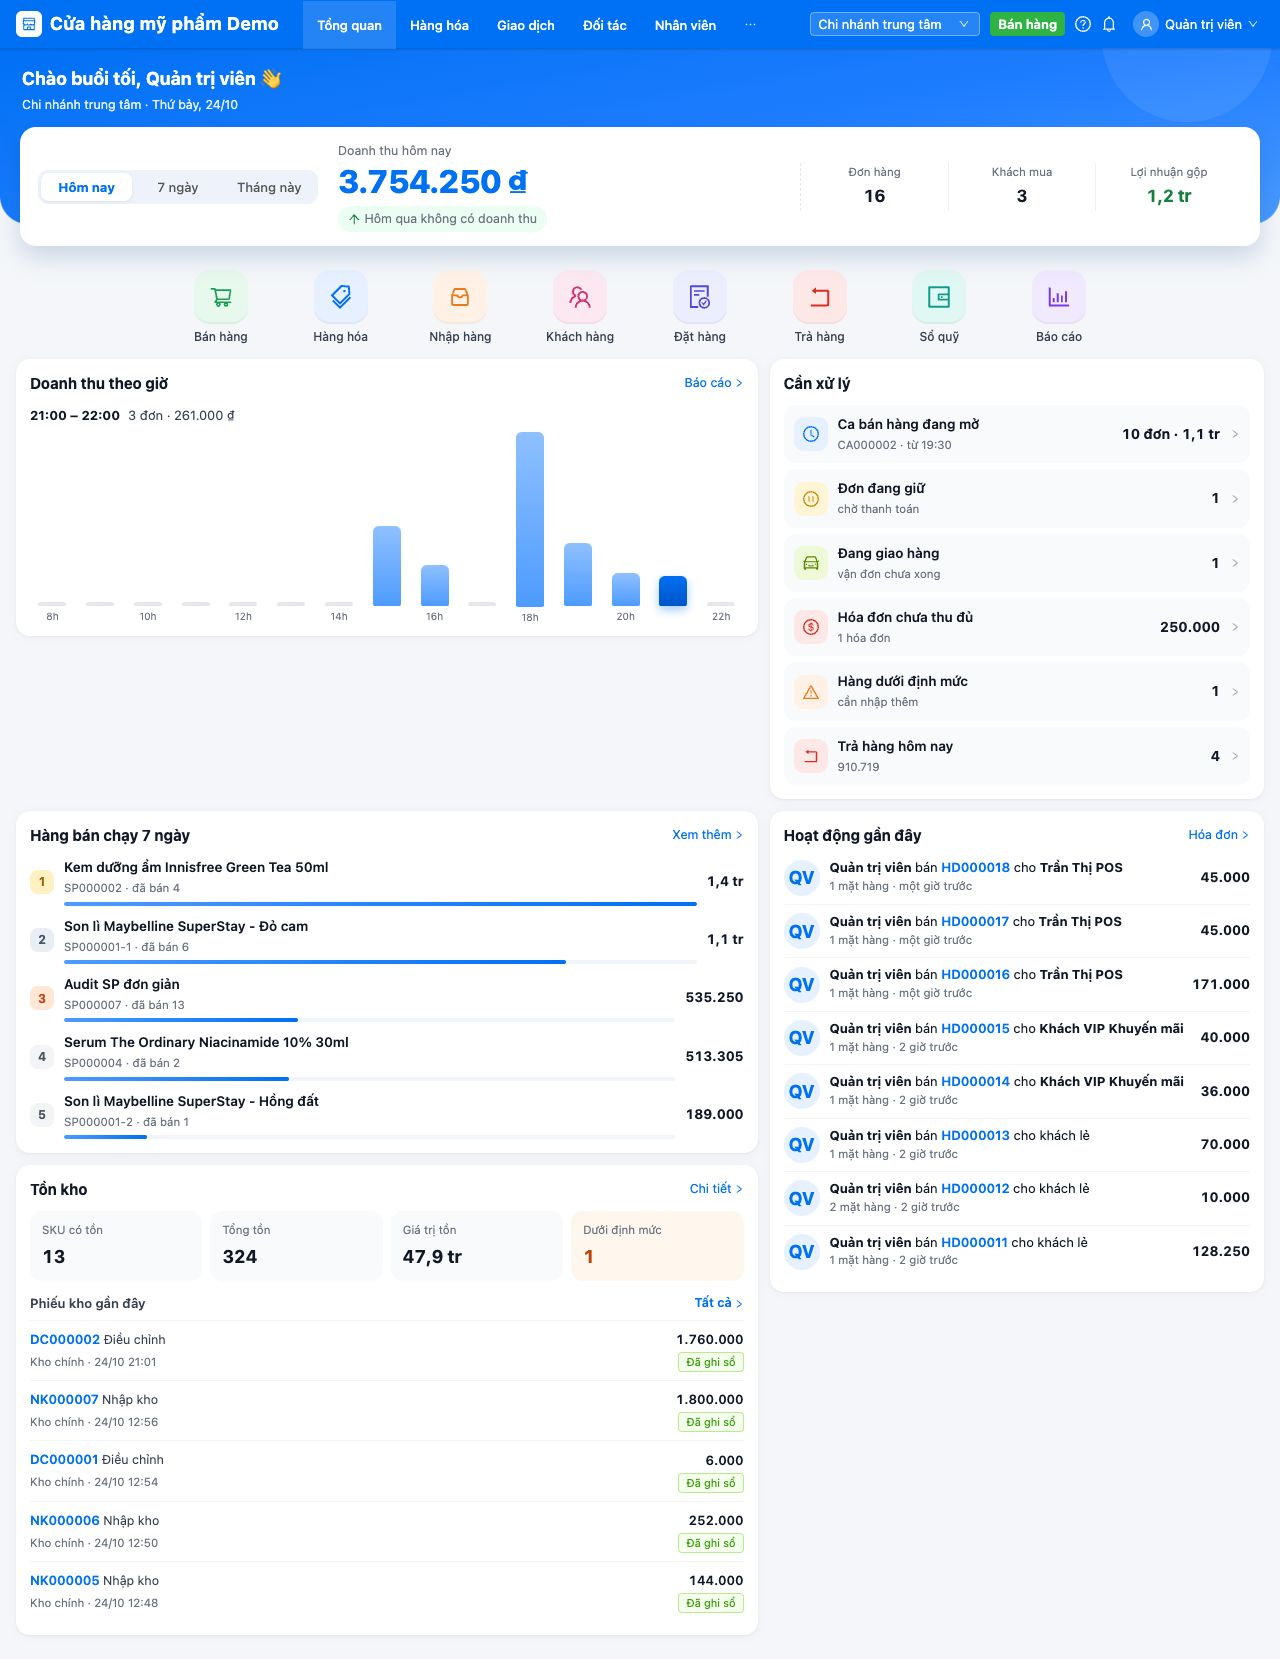
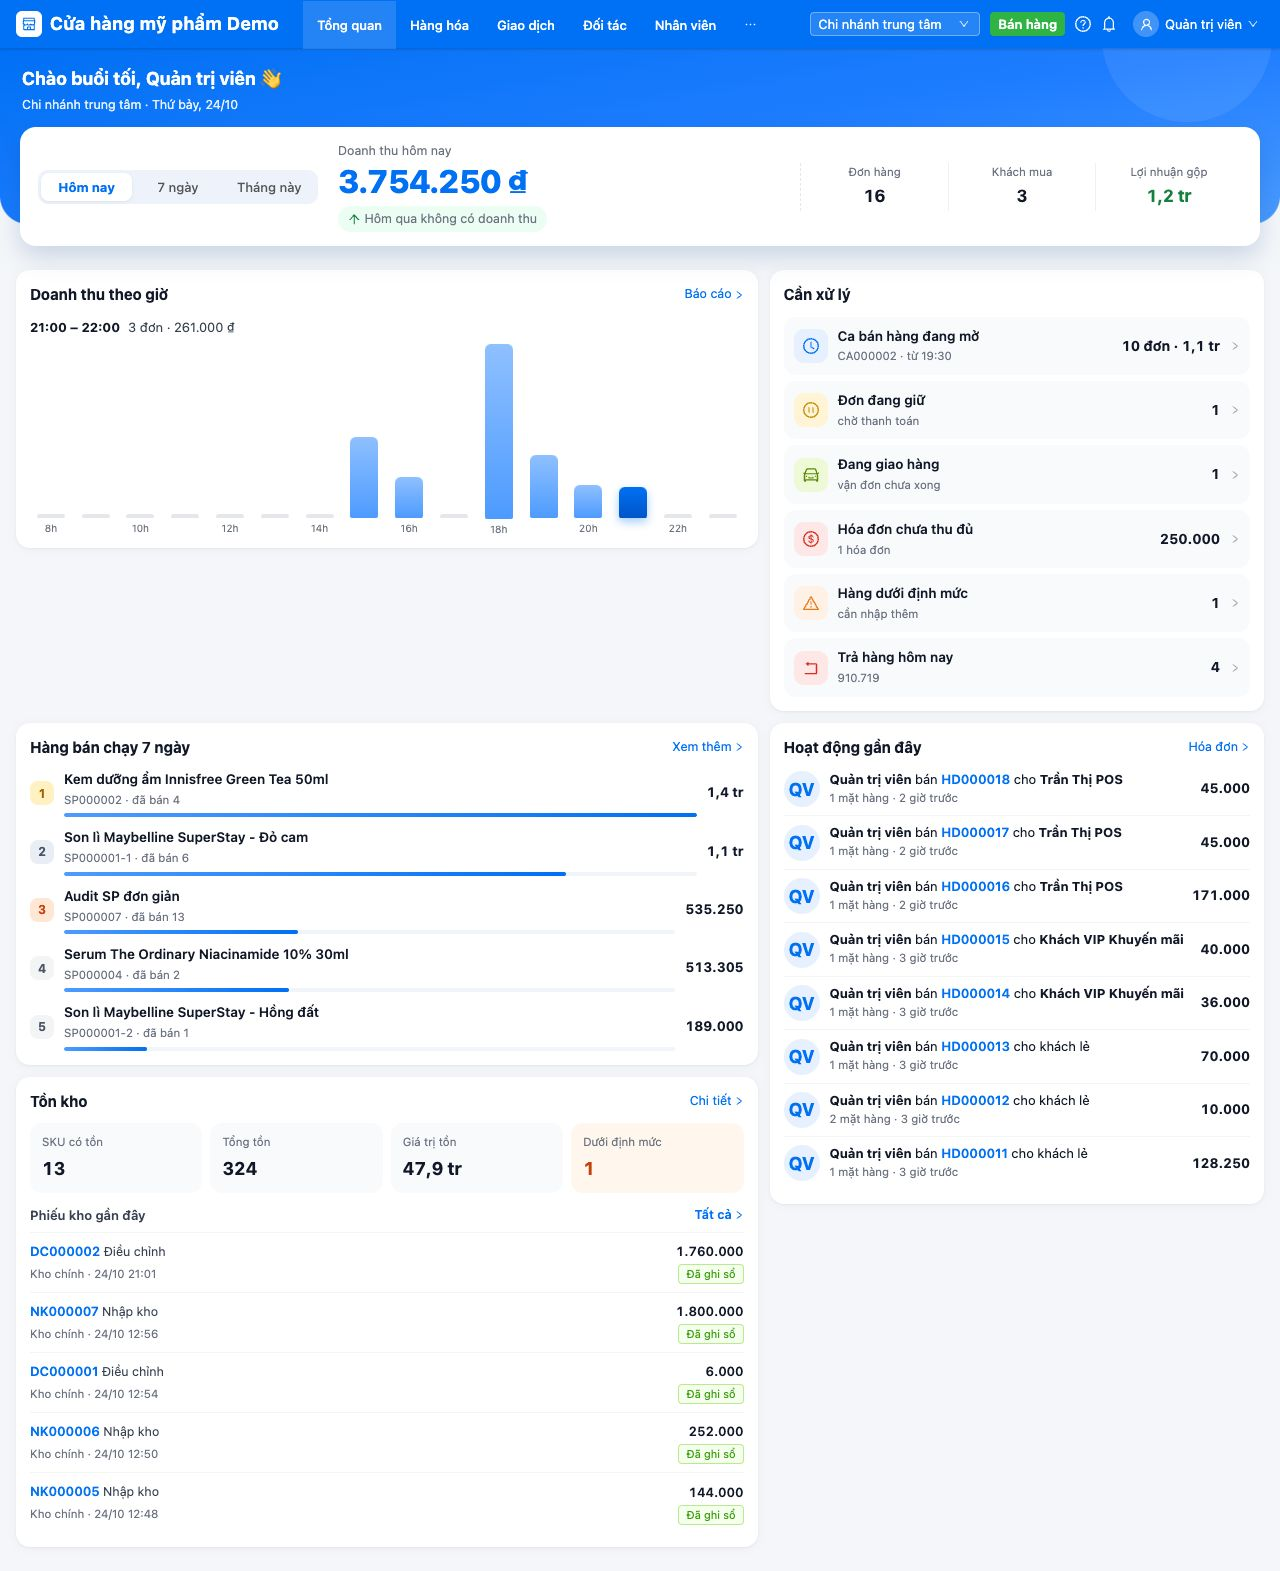
Trang chủ: bỏ hẳn hàng lối tắt (cả điện thoại), chụp lại ảnh hướng dẫn

diff --git a/apps/web/src/pages/dashboard/dashboard.css b/apps/web/src/pages/dashboard/dashboard.css
@@ -31,24 +31,6 @@
 .dh-kpi .k { font-size: 11.5px; color: #6b7280; }
 .dh-kpi .v { font-size: 17px; font-weight: 700; font-variant-numeric: tabular-nums; }
 
-/* ---------- quick actions ---------- */
-.dh-actions { display: grid; grid-template-columns: repeat(4, 1fr); gap: 10px 6px; padding: 24px 4px 2px; }
-.dh-action { display: flex; flex-direction: column; align-items: center; gap: 6px; color: #374151; text-decoration: none; font-size: 12px; font-weight: 500; text-align: center; line-height: 1.2; }
-.dh-action .ic { width: 50px; height: 50px; border-radius: 16px; display: inline-flex; align-items: center; justify-content: center; font-size: 22px; background: #eef2ff; color: #4f46e5; box-shadow: inset 0 -2px 0 rgba(0,0,0,.04); transition: transform .12s; }
-.dh-action:active .ic { transform: scale(.94); }
-.tone-green .ic { background: #e7f8ec; color: #1f9d55; }
-.tone-blue .ic { background: #e6f0ff; color: var(--kv-blue); }
-.tone-orange .ic { background: #fff1e6; color: #ea7a1a; }
-.tone-pink .ic { background: #fde8f1; color: #d6336c; }
-.tone-indigo .ic { background: #eceeff; color: #4f46e5; }
-.tone-red .ic { background: #fee7e7; color: #d92d20; }
-.tone-teal .ic { background: #e1f7f3; color: #0f9d8a; }
-.tone-purple .ic { background: #f1e9fe; color: #7c3aed; }
-.tone-amber .ic { background: #fff5d6; color: #c98a00; }
-.tone-cyan .ic { background: #e0f6ff; color: #0284c7; }
-.tone-lime .ic { background: #eef9d8; color: #5c8a00; }
-.tone-gray .ic { background: #f1f3f6; color: #4b5563; }
-
 /* ---------- cards ---------- */
 .dh-card { background: #fff; border-radius: 14px; padding: 12px 14px 14px; box-shadow: 0 1px 2px rgba(16, 24, 40, .05), 0 1px 10px rgba(16, 24, 40, .04); min-width: 0; }
 .dh-card-head { display: flex; align-items: center; justify-content: space-between; gap: 8px; margin-bottom: 10px; }
@@ -56,7 +38,7 @@
 .dh-more { font-size: 12.5px; color: var(--kv-blue); white-space: nowrap; display: inline-flex; align-items: center; gap: 2px; }
 .dh-more .anticon { font-size: 10px; }
 .dh-sub { display: flex; align-items: center; justify-content: space-between; font-size: 13px; font-weight: 600; color: #374151; margin: 12px 0 6px; }
-.dh-grid { display: flex; flex-direction: column; gap: 12px; }
+.dh-grid { display: flex; flex-direction: column; gap: 12px; margin-top: 30px; } /* chừa chỗ cho thẻ doanh thu đè xuống hero */
 
 /* ---------- revenue chart ---------- */
 .dh-chart { position: relative; }
@@ -81,6 +63,20 @@
 .dh-top-bar { height: 4px; background: #f1f5f9; border-radius: 4px; margin-top: 4px; overflow: hidden; }
 .dh-top-bar span { display: block; height: 100%; background: linear-gradient(90deg, #4d9bff, var(--kv-blue)); border-radius: 4px; }
 .dh-top-rev { font-weight: 700; font-size: 13.5px; color: #111827; white-space: nowrap; font-variant-numeric: tabular-nums; }
+
+/* ---------- tone colours (dùng cho khối Cần xử lý) ---------- */
+.tone-green .ic { background: #e7f8ec; color: #1f9d55; }
+.tone-blue .ic { background: #e6f0ff; color: var(--kv-blue); }
+.tone-orange .ic { background: #fff1e6; color: #ea7a1a; }
+.tone-pink .ic { background: #fde8f1; color: #d6336c; }
+.tone-indigo .ic { background: #eceeff; color: #4f46e5; }
+.tone-red .ic { background: #fee7e7; color: #d92d20; }
+.tone-teal .ic { background: #e1f7f3; color: #0f9d8a; }
+.tone-purple .ic { background: #f1e9fe; color: #7c3aed; }
+.tone-amber .ic { background: #fff5d6; color: #c98a00; }
+.tone-cyan .ic { background: #e0f6ff; color: #0284c7; }
+.tone-lime .ic { background: #eef9d8; color: #5c8a00; }
+.tone-gray .ic { background: #f1f3f6; color: #4b5563; }
 
 /* ---------- todo ---------- */
 .dh-todo { display: flex; flex-direction: column; gap: 6px; }
@@ -123,7 +119,6 @@
 @media (min-width: 768px) {
   .dh-hero { margin: -14px -16px 0; padding: 10px 20px 0; border-radius: 0 0 28px 28px; }
   .dh-hero-card { max-width: 760px; margin: 0 auto -22px; }
-  .dh-actions { grid-template-columns: repeat(8, 1fr); max-width: 760px; margin: 0 auto; padding-top: 30px; width: 100%; }
   .dh-bars { height: 190px; }
 }
 @media (min-width: 992px) {
@@ -134,8 +129,6 @@
   .dh-rev { grid-column: 2; text-align: left; padding: 0; }
   .dh-rev-val { font-size: 32px; }
   .dh-kpis { grid-column: 3; border-top: none; padding-top: 0; border-left: 1px dashed #e5e7eb; }
-  /* máy tính đã có menu trên cùng → không hiện hàng lối tắt; chừa chỗ cho thẻ doanh thu đè xuống */
-  .dh-actions { display: none; }
   .dh-grid { margin-top: 34px; }
   .dh-inv { grid-template-columns: repeat(4, 1fr); }
 }

diff --git a/apps/web/src/pages/dashboard/DashboardPage.tsx b/apps/web/src/pages/dashboard/DashboardPage.tsx
@@ -1,14 +1,13 @@
 import { Alert, Avatar, Empty, Segmented, Skeleton, Tag } from 'antd';
 import {
-  ArrowDownOutlined, ArrowUpOutlined, AuditOutlined, BarChartOutlined, CarOutlined, ClockCircleOutlined, DollarOutlined, FileDoneOutlined, GiftOutlined,
-  InboxOutlined, PauseCircleOutlined, QuestionCircleOutlined, RightOutlined, RollbackOutlined, ShoppingCartOutlined, SwapOutlined, TagsOutlined, TeamOutlined, WalletOutlined, WarningOutlined,
+  ArrowDownOutlined, ArrowUpOutlined, CarOutlined, ClockCircleOutlined, DollarOutlined, FileDoneOutlined, GiftOutlined, PauseCircleOutlined, RightOutlined, RollbackOutlined, SwapOutlined, WarningOutlined,
 } from '@ant-design/icons';
 import dayjs from 'dayjs';
-import { ReactNode, useMemo, useState } from 'react';
+import { ReactNode, useState } from 'react';
 import { Link } from 'react-router-dom';
 import { HomeSales, useDashboardHome } from '../../api/dashboard';
 import { errMsg } from '../../api/client';
-import { useAuthStore, useCan } from '../../store/auth';
+import { useAuthStore } from '../../store/auth';
 import { DOC_STATUS_COLOR, DOC_STATUS_LABEL, DOC_TYPE_LABEL, money, qty, toNum } from '../../utils/format';
 import './dashboard.css';
 
@@ -96,27 +95,12 @@ function Section({ title, extra, children, className = '' }: { title: ReactNode;
 }
 
 export default function DashboardPage() {
-  const can = useCan();
   const me = useAuthStore((s) => s.me);
   const branchId = useAuthStore((s) => s.currentBranchId);
   const { data, isLoading, error } = useDashboardHome(branchId);
   const [period, setPeriod] = useState<Period>('today');
   const branchName = me?.branches.find((b) => b.id === branchId)?.name ?? (me?.branches.length ? 'Tất cả chi nhánh' : '');
 
-  const actions = useMemo(() => [
-    { key: 'pos', to: '/pos', label: 'Bán hàng', icon: <ShoppingCartOutlined />, tone: 'green', ok: can('invoice.create') },
-    { key: 'products', to: '/products', label: 'Hàng hóa', icon: <TagsOutlined />, tone: 'blue', ok: can('product.view') },
-    { key: 'receipts', to: '/purchase-receipts', label: 'Nhập hàng', icon: <InboxOutlined />, tone: 'orange', ok: can('purchase.receipt.view') },
-    { key: 'customers', to: '/customers', label: 'Khách hàng', icon: <TeamOutlined />, tone: 'pink', ok: can('customer.view') },
-    { key: 'orders', to: '/orders', label: 'Đặt hàng', icon: <FileDoneOutlined />, tone: 'indigo', ok: can('order.view') },
-    { key: 'returns', to: '/sales-returns', label: 'Trả hàng', icon: <RollbackOutlined />, tone: 'red', ok: can('return.view') },
-    { key: 'cash', to: '/cash', label: 'Sổ quỹ', icon: <WalletOutlined />, tone: 'teal', ok: can('cash.view') },
-    { key: 'reports', to: '/reports/sales', label: 'Báo cáo', icon: <BarChartOutlined />, tone: 'purple', ok: can('sales.report.view') },
-    { key: 'stocktakes', to: '/stocktakes', label: 'Kiểm kho', icon: <AuditOutlined />, tone: 'amber', ok: can('stocktake.view') },
-    { key: 'transfers', to: '/transfers', label: 'Chuyển kho', icon: <SwapOutlined />, tone: 'cyan', ok: can('transfer.view') },
-    { key: 'deliveries', to: '/deliveries', label: 'Giao hàng', icon: <CarOutlined />, tone: 'lime', ok: can('delivery.view') },
-    { key: 'help', to: '/help', label: 'Hướng dẫn', icon: <QuestionCircleOutlined />, tone: 'gray', ok: true },
-  ].filter((a) => a.ok).slice(0, 8), [can]);
 
   if (error) return <Alert type="error" message={errMsg(error)} showIcon />;
   if (isLoading || !data) return <div className="dh"><div className="dh-hero"><Skeleton active paragraph={{ rows: 3 }} /></div><Skeleton active paragraph={{ rows: 8 }} /></div>;
@@ -177,16 +161,9 @@ export default function DashboardPage() {
             </div>
           </div>
         ) : (
-          <div className="dh-hero-card dh-hero-plain">Chúc một ngày bán hàng thuận lợi! Dùng các lối tắt bên dưới để bắt đầu.</div>
+          <div className="dh-hero-card dh-hero-plain">Chúc một ngày bán hàng thuận lợi!</div>
         )}
       </div>
-
-      {/* ---------- lối tắt ---------- */}
-      {actions.length > 0 && (
-        <div className="dh-actions">
-          {actions.map((a) => <Link key={a.key} to={a.to} className={`dh-action tone-${a.tone}`}><span className="ic">{a.icon}</span><span>{a.label}</span></Link>)}
-        </div>
-      )}
 
       <div className="dh-grid">
           {todo.length > 0 && (

diff --git a/apps/web/src/pages/help/guides/batDau.ts b/apps/web/src/pages/help/guides/batDau.ts
@@ -11,7 +11,7 @@ export const BAT_DAU: Guide[] = [
     steps: [
       { text: 'Mở địa chỉ phần mềm trên trình duyệt (Chrome, Safari…). Trên điện thoại có thể bấm "Thêm vào màn hình chính" để mở nhanh như một ứng dụng.' },
       { text: 'Nhập Mã gian hàng (do chủ cửa hàng đặt khi đăng ký, ví dụ "demo"), Tên đăng nhập và Mật khẩu, rồi bấm Đăng nhập.', shot: 'login', caption: 'Màn hình đăng nhập' },
-      { text: 'Sau khi đăng nhập bạn vào trang Tổng quan: doanh thu hôm nay so với hôm qua, lối tắt tới các chức năng hay dùng, việc cần xử lý, biểu đồ doanh thu, hàng bán chạy và hoạt động gần đây.', shot: 'dashboard' },
+      { text: 'Sau khi đăng nhập bạn vào trang Tổng quan: doanh thu hôm nay so với hôm qua, việc cần xử lý, biểu đồ doanh thu, hàng bán chạy và hoạt động gần đây.', shot: 'dashboard' },
       { text: 'Chưa có gian hàng? Bấm "Đăng ký gian hàng mới" ở dưới nút Đăng nhập, điền Mã gian hàng (chữ thường, số, dấu -), Tên cửa hàng, Họ tên chủ cửa hàng, Tên đăng nhập, Mật khẩu rồi bấm Đăng ký.', note: 'Tài khoản tạo ra là chủ gian hàng (owner) – có toàn quyền. Gian hàng mới được dùng thử 30 ngày.' },
       { text: 'Để đăng xuất: bấm tên người dùng ở góc phải (trên điện thoại: biểu tượng ☰ rồi kéo xuống cuối) và chọn Đăng xuất.' },
     ],
@@ -30,7 +30,6 @@ export const BAT_DAU: Guide[] = [
     keywords: ['dashboard', 'trang chủ', 'home', 'doanh thu hôm nay', 'lối tắt', 'cần xử lý'],
     steps: [
       { text: 'Thẻ xanh trên cùng là Kết quả bán hàng: chọn Hôm nay / 7 ngày / Tháng này để xem Doanh thu, % tăng giảm so với kỳ trước, số Đơn hàng, Khách mua và Lợi nhuận gộp (nếu có quyền xem giá vốn). Bấm số đơn để mở danh sách hóa đơn.', shot: 'dashboard' },
-      { text: 'Trên điện thoại, hàng lối tắt (Bán hàng, Hàng hóa, Nhập hàng, Khách hàng, Đặt hàng, Trả hàng, Sổ quỹ, Báo cáo…) chỉ hiện những chức năng bạn có quyền – bấm để vào thẳng. Trên máy tính dùng menu trên cùng.' },
       { text: 'Khối Cần xử lý gom các việc đang chờ: ca bán hàng đang mở, đơn đang giữ, đơn đặt đã xác nhận, vận đơn đang giao, hóa đơn chưa thu đủ, hàng dưới định mức tồn, chuyển kho chờ nhận, trả hàng hôm nay, khách sinh nhật. Mục nào bằng 0 sẽ tự ẩn; bấm vào để mở đúng màn hình đã lọc.' },
       { text: 'Biểu đồ Doanh thu theo giờ (kỳ Hôm nay) hoặc theo ngày (7 ngày / Tháng này): chạm vào một cột để xem số đơn và doanh thu của giờ / ngày đó.' },
       { text: 'Hàng bán chạy 7 ngày xếp hạng 5 mặt hàng theo doanh thu; Hoạt động gần đây liệt kê các hóa đơn mới nhất (ai bán, cho khách nào, bao nhiêu tiền, cách đây bao lâu) – bấm để mở hóa đơn.' },
